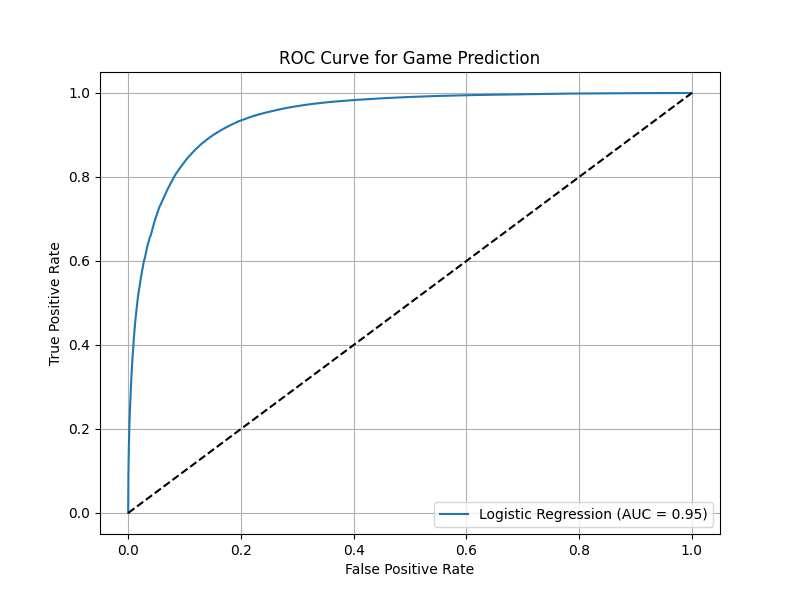
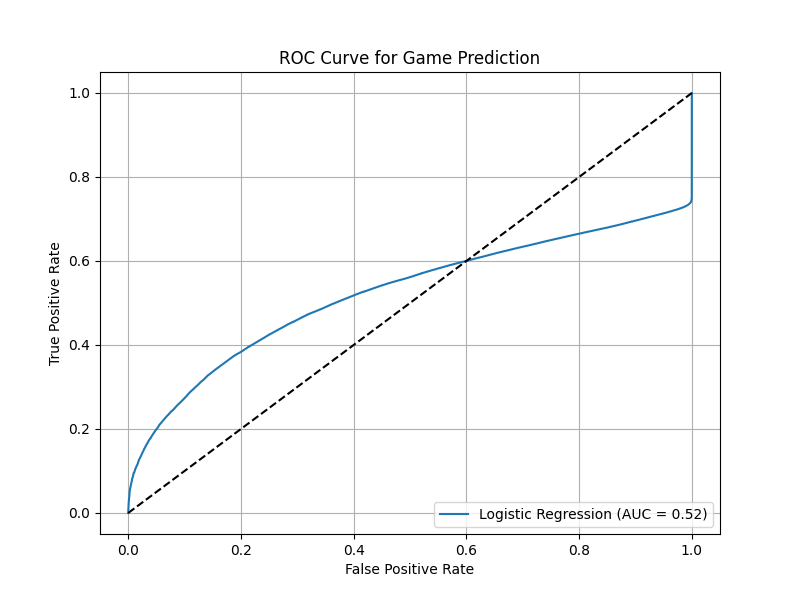
updated base model

diff --git a/base_model_with_hard_neg.py b/base_model_with_hard_neg.py
@@ -5,7 +5,7 @@ import numpy as np
 import matplotlib.pyplot as plt
 from sklearn.model_selection import train_test_split
 from sklearn.linear_model import LogisticRegression
-from sklearn.metrics import classification_report, roc_auc_score, average_precision_score
+from sklearn.metrics import classification_report, roc_auc_score, average_precision_score, roc_curve
 from sklearn.preprocessing import StandardScaler
 import seaborn as sns
 
@@ -104,3 +104,25 @@ pr_auc = average_precision_score(y_test, y_probs)
 
 print(f"ROC AUC: {auc:.4f}")
 print(f"PR AUC:  {pr_auc:.4f}")
+
+fpr, tpr, thresholds = roc_curve(y_test, y_probs)
+
+# plotting
+
+plt.figure(figsize=(8, 6))
+plt.plot(fpr, tpr, label=f'Logistic Regression (AUC = {auc:.2f})')
+plt.plot([0, 1], [0, 1], 'k--')
+plt.xlabel('False Positive Rate')
+plt.ylabel('True Positive Rate')
+plt.title('ROC Curve for Game Prediction')
+plt.legend(loc='lower right')
+plt.grid(True)
+plt.savefig('roc_curve_base.png')
+
+plt.figure(figsize=(10, 5))
+sns.barplot(x=features, y=np.abs(model.coef_[0]))
+plt.title('Feature Importance (Coefficient Magnitude)')
+plt.ylabel('Absolute Coefficient')
+plt.xticks(rotation=45)
+plt.tight_layout()
+plt.savefig('feature_importance_base.png')
